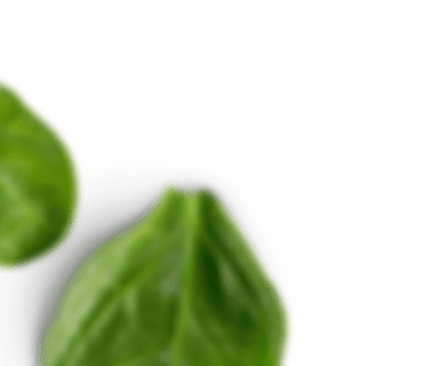
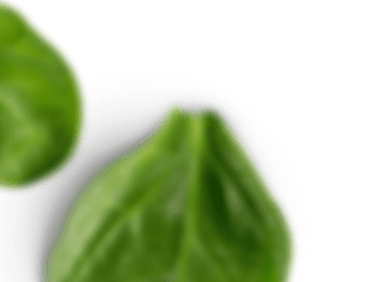
fixed PageContainer
изменила % на рх для размера картинки и добавила в ней брекпоинты. Для контейнера поменяла max-width на min-width

diff --git a/src/Components/common/PageContainer/PageContainer.styled.js b/src/Components/common/PageContainer/PageContainer.styled.js
@@ -7,7 +7,7 @@ const rotateAnimation = keyframes`
 }`;
 
 export const MainContainer = styled.div`
-  max-width: 100%;
+  width: 100%;
   position: relative;
   margin-left: auto;
   margin-right: auto;
@@ -16,15 +16,15 @@ export const MainContainer = styled.div`
   padding: 114px 16px 100px 16px;
   background-color: ${(p) => p.theme.colors.mainBackground};
   ${(p) => p.theme.sizes.mobile} {
-    max-width: 375px;
+    min-width: 375px;
   }
 
   ${(p) => p.theme.sizes.tablet} {
-    max-width: 768px;
+    min-width: 768px;
     padding: 136px 32px 200px 32px;
   }
   ${(p) => p.theme.sizes.desktop} {
-    max-width: 1440px;
+    min-width: 1440px;
     padding: 100px 100px 200px 100px;
   }
 `;
@@ -62,8 +62,16 @@ export const RotateBlock = styled.div`
 
 export const ImageBackground = styled.img`
   position: absolute;
-  width: 50%;
-  height: 60%;
+  max-width: 187px;
+  height: 100px;
   bottom: 0px;
   left: 0px;
+  ${(p) => p.theme.sizes.tablet} {
+    max-width: 360px;
+    height: 200px;
+  }
+  ${(p) => p.theme.sizes.desktop} {
+    max-width: 500px;
+    height: 250px;
+  }
 `;
